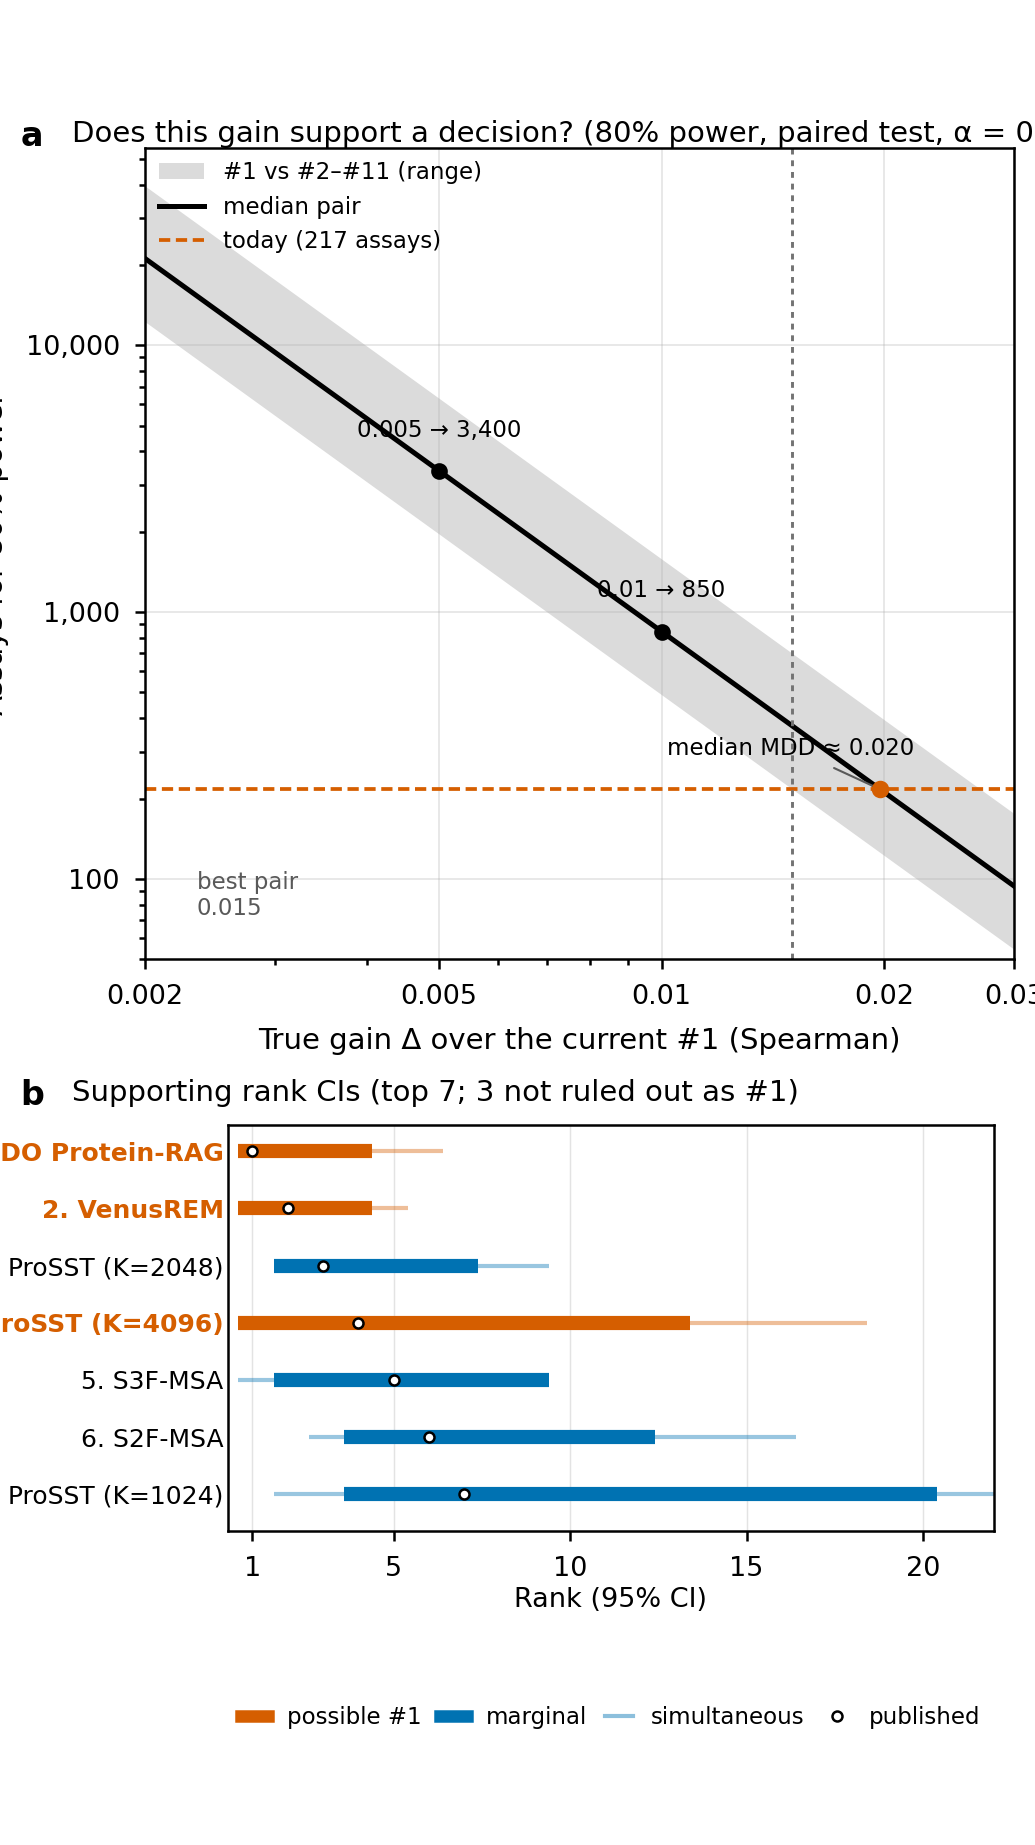
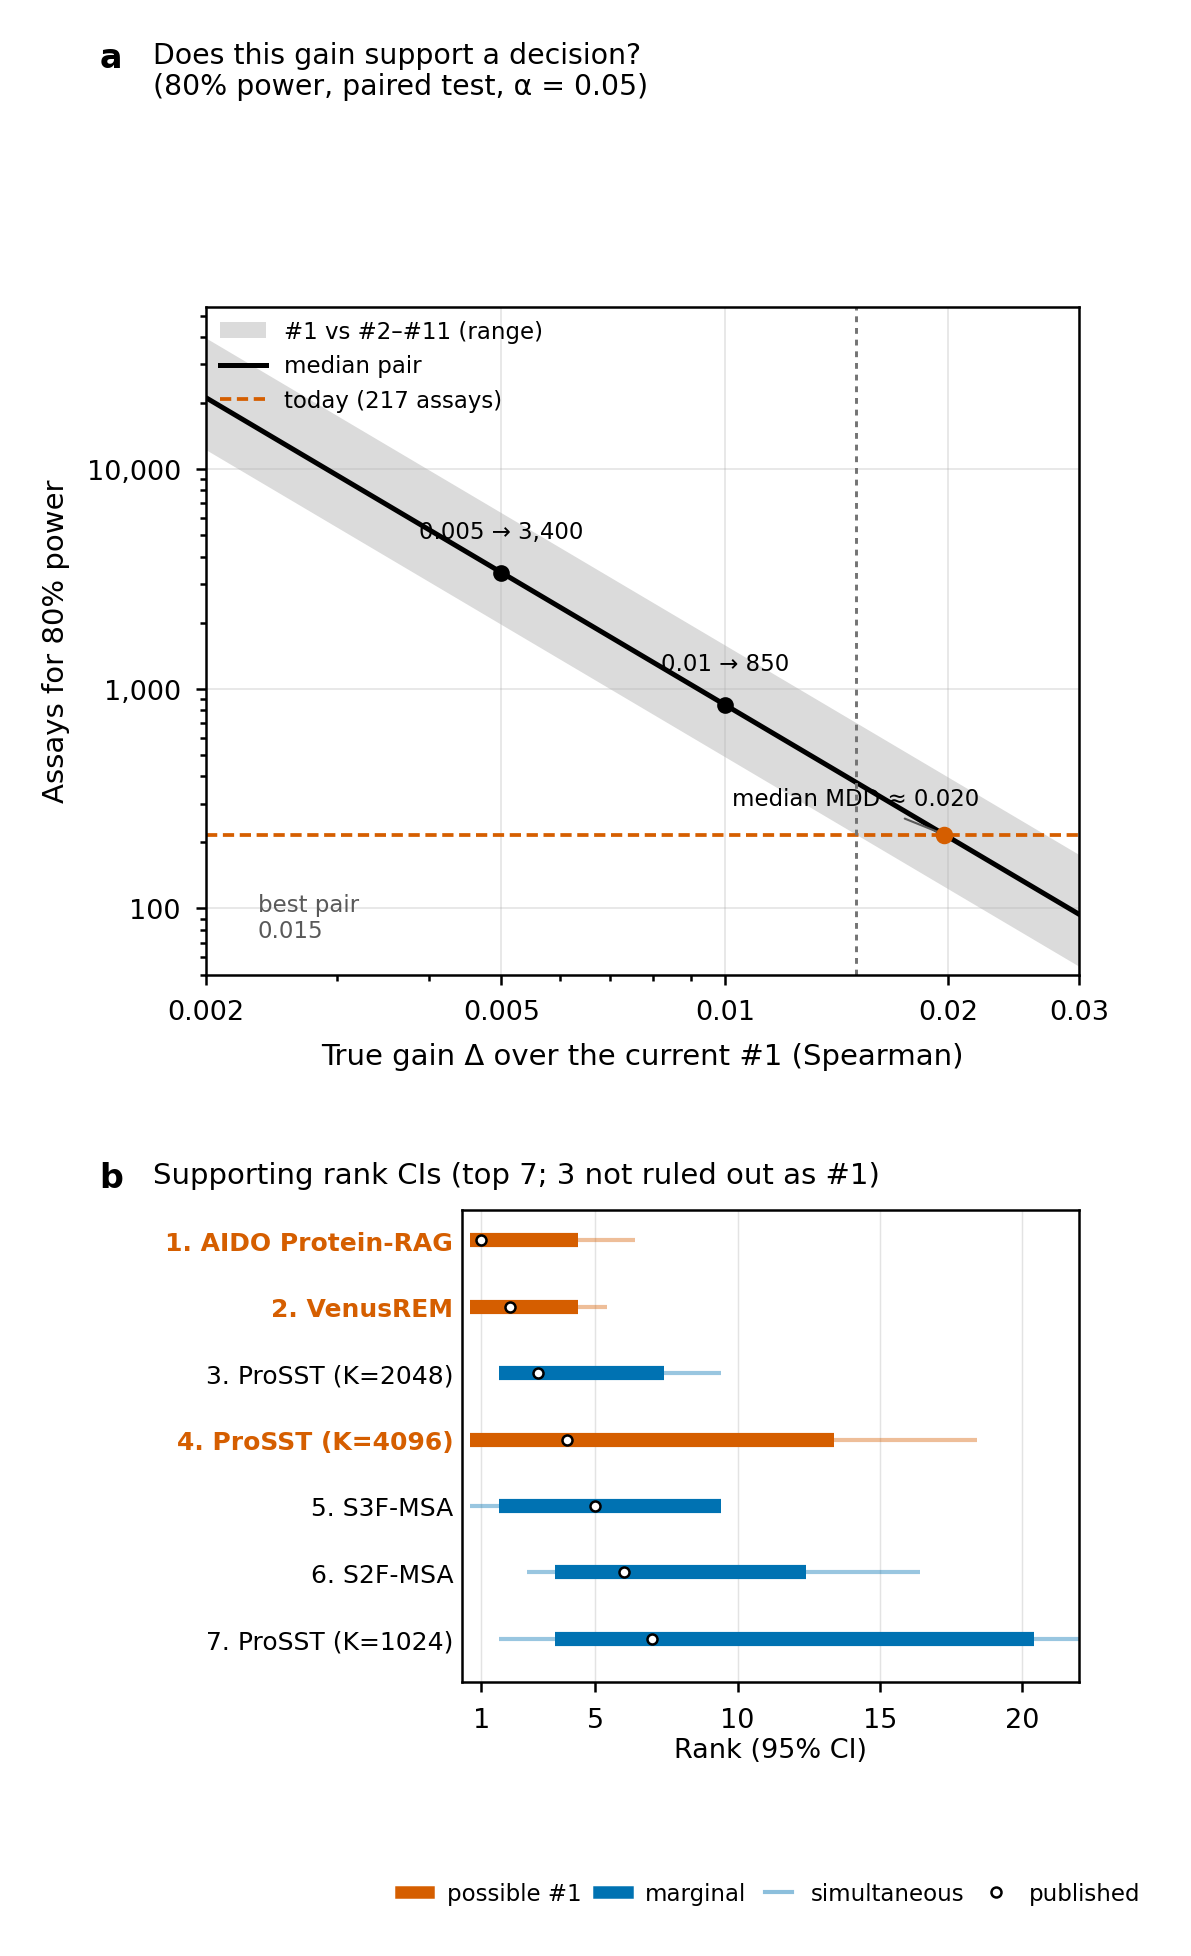
fix: headline figure margins for full labels and title

diff --git a/src/pgnoise/plots.py b/src/pgnoise/plots.py
@@ -249,10 +249,11 @@ def headline(ru: pd.DataFrame, neighbours: pd.DataFrame, per_pair: pd.DataFrame,
     d = ru.head(rank_panel)
     n_best = int(ru.in_best_set.sum())
     with plt.rc_context(HEADLINE_RC):
-        fig = plt.figure(figsize=(3.45, 6.15))
-        # Fixed vertical bands: (a) power, gutter, (b) ranks + in-panel legend — no shared fig.legend.
-        bx = fig.add_axes((0.14, 0.48, 0.84, 0.44))
-        ax = fig.add_axes((0.22, 0.17, 0.74, 0.22))
+        fig = plt.figure(figsize=(3.55, 6.55))
+        fig.subplots_adjust(left=0.06, right=0.98, top=0.86, bottom=0.11)
+        # Rank panel needs a wide left margin for full model names; power panel aligns on the right.
+        ax = fig.add_axes((0.40, 0.14, 0.58, 0.24))
+        bx = fig.add_axes((0.16, 0.50, 0.82, 0.34))
 
         grid = required.groupby("delta")["units_needed"]
         lo, med, hi = (grid.min() * assays_per_unit, grid.median() * assays_per_unit, grid.max() * assays_per_unit)
@@ -284,9 +285,10 @@ def headline(ru: pd.DataFrame, neighbours: pd.DataFrame, per_pair: pd.DataFrame,
         power_handles, power_labels = bx.get_legend_handles_labels()
         bx.legend(power_handles + [today_line], power_labels + [today_line.get_label()],
                   loc="upper left", frameon=False, borderaxespad=0.2, fontsize=5.5)
-        fig.text(0.02, 0.935, "a", fontweight="bold", fontsize=8, va="top")
-        fig.text(0.07, 0.935, "Does this gain support a decision? (80% power, paired test, α = 0.05)",
-                 fontsize=7, va="top")
+        fig.text(0.06, 0.975, "a", fontweight="bold", fontsize=8, va="top")
+        fig.text(0.11, 0.975,
+                 "Does this gain support a decision?\n(80% power, paired test, α = 0.05)",
+                 fontsize=6.8, va="top", linespacing=1.15)
 
         y = np.arange(len(d))
         for yi, (m, r) in zip(y, d.iterrows()):
@@ -296,7 +298,9 @@ def headline(ru: pd.DataFrame, neighbours: pd.DataFrame, per_pair: pd.DataFrame,
             ax.plot(r["rank"], yi, "o", ms=2.4, mfc="white", mec="black", mew=0.6, zorder=3)
         labels = [f"{int(r['rank'])}. {_headline_label(m)}{'†' if m in incomplete else ''}" for m, r in d.iterrows()]
         ax.set_yticks(y, labels, fontsize=6)
+        ax.tick_params(axis="y", length=0, pad=2, labelleft=True)
         for tick, best in zip(ax.get_yticklabels(), d.in_best_set):
+            tick.set_horizontalalignment("right")
             if best:
                 tick.set_color(POSSIBLE_TOP1)
                 tick.set_fontweight("bold")
@@ -304,7 +308,6 @@ def headline(ru: pd.DataFrame, neighbours: pd.DataFrame, per_pair: pd.DataFrame,
         ax.set_xlim(0.3, x_max)
         ax.set_ylim(len(d) - 0.35, -0.45)
         ax.set_xticks([1, 5, 10, 15, 20] if x_max >= 20 else [1, 5, 10, 15])
-        ax.tick_params(axis="y", length=0, pad=1)
         ax.set_xlabel("Rank (95% CI)", labelpad=1, fontsize=6.5)
         ax.grid(axis="x", lw=0.35, alpha=0.35)
         rank_handles = [
@@ -315,13 +318,19 @@ def headline(ru: pd.DataFrame, neighbours: pd.DataFrame, per_pair: pd.DataFrame,
         ]
         ax.legend(handles=rank_handles, loc="upper center", bbox_to_anchor=(0.5, -0.38),
                   ncol=4, frameon=False, handlelength=1.2, columnspacing=0.8, fontsize=5.5)
-        fig.text(0.02, 0.415, "b", fontweight="bold", fontsize=8, va="top")
-        fig.text(0.07, 0.415, f"Supporting rank CIs (top {rank_panel}; {n_best} not ruled out as #1)",
+        fig.text(0.06, 0.405, "b", fontweight="bold", fontsize=8, va="top")
+        fig.text(0.11, 0.405, f"Supporting rank CIs (top {rank_panel}; {n_best} not ruled out as #1)",
                  fontsize=7, va="top")
 
         for path in paths:
             path.parent.mkdir(parents=True, exist_ok=True)
-            fig.savefig(path, dpi=300, metadata={"CreationDate": None} if path.suffix == ".pdf" else None)
+            fig.savefig(
+                path,
+                dpi=300,
+                bbox_inches="tight",
+                pad_inches=0.14,
+                metadata={"CreationDate": None} if path.suffix == ".pdf" else None,
+            )
         plt.close(fig)
     return paths
 
